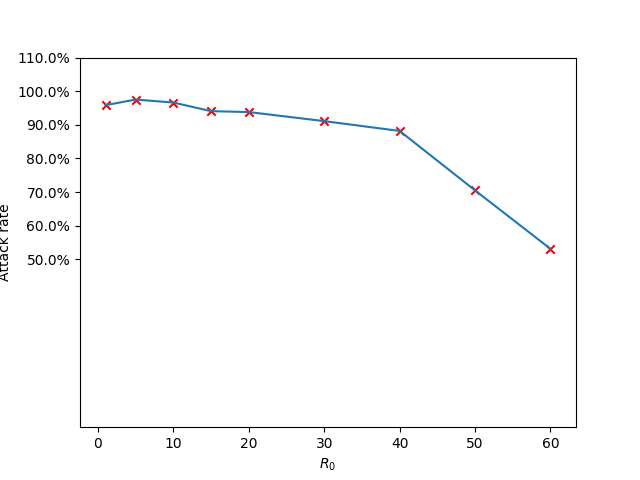
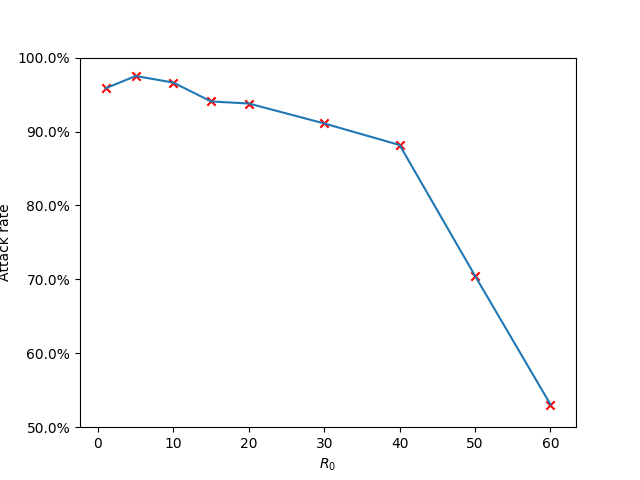
Tweak new plot

diff --git a/assets/src/introduction-plot-new.py b/assets/src/introduction-plot-new.py
@@ -21,6 +21,5 @@ plt.xlabel("$R_0$")
 plt.ylabel("Attack rate")
 locs, _ = plt.yticks()
 plt.yticks(locs, ["%.1f%%" % (100*y) for y in locs])
-plt.ylim((0, plt.ylim()[1]))
-plt.xkcd()
+plt.ylim((0.5, 1.0))
 plt.show()
